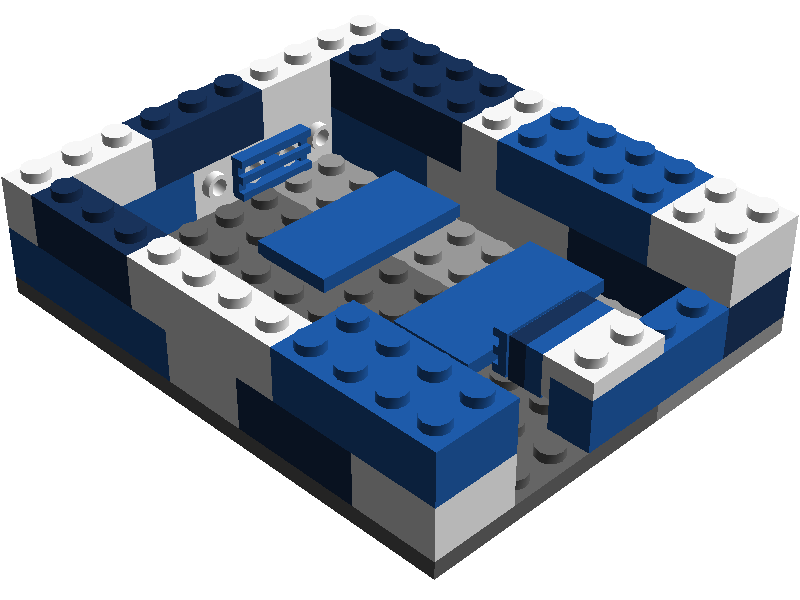
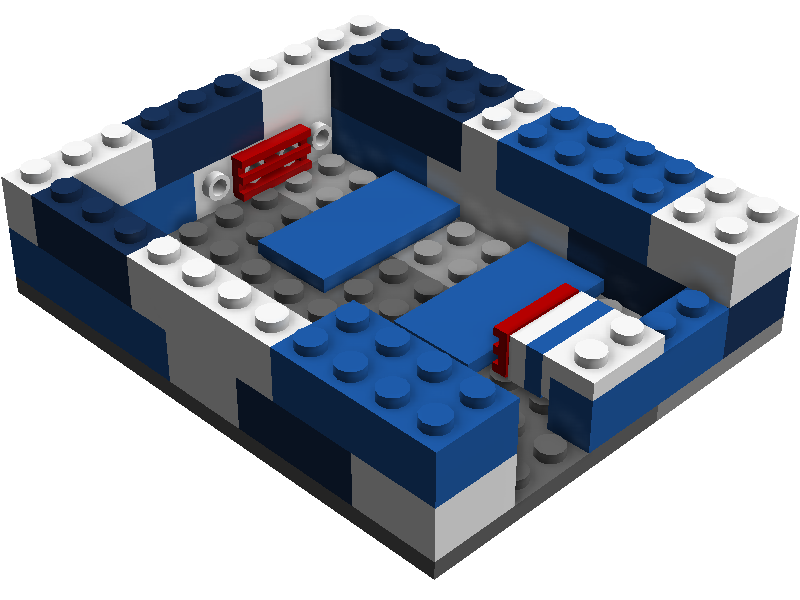
Fixed instructions

diff --git a/instructions/index.html b/instructions/index.html
@@ -556,8 +556,8 @@
                         <tr style="vertical-align:middle">
 					        <td>3&nbsp;x</td>
 					        <td><img height="64" width="64" src="steps/Brick12.png" /></td>
-					        <td>241223</td>
-					        <td>RADIATOR GRILLE 1X2 - Bright Blue</td>
+					        <td>241221</td>
+					        <td>RADIATOR GRILLE 1X2 - Bright Red</td>
 				        </tr>
                     </table>
                 </div>
@@ -567,8 +567,8 @@
                         <tr style="vertical-align:middle">
 					        <td>1&nbsp;x</td>
 					        <td><img height="64" width="64" src="steps/Brick13.png" /></td>
-					        <td>4177737</td>
-					        <td>PLATE 1X2 - Earth Blue</td>
+					        <td>302301</td>
+					        <td>PLATE 1X2 - White</td>
 				        </tr>
                     </table>
                 </div>

diff --git a/README.md b/README.md
@@ -16,31 +16,32 @@
 
 ## Bricks
 
-| Brick   | Name                          | Picture | Part  | Color code              | Quantity |
-|---------|-------------------------------|---------|-------|-------------------------|---------:|
-| 300401  | BRICK 1X2                     |         | 3004  | 1 - White               | 1        |
-| 362201  | BRICK 1X3                     |         | 3622  | 1 - White               | 1        |
-| 4251160 | BRICK 1X3                     |         | 3622  | 140 - Earth Blue        | 3        |
-| 300301  | BRICK 2X2                     |         | 3003  | 1 - White               | 2        |
-| 301001  | BRICK 1X4                     |         | 3010  | 1 - White               | 2        |
-| 301023  | BRICK 1X4                     |         | 3010  | 23 - Bright Blue        | 3        |
-| 300101  | BRICK 2X4                     |         | 3001  | 1 - White               | 1        |
-| 4264581 | BRICK 2X4                     |         | 3001  | 140 - Earth Blue        | 2        |
-| 300123  | BRICK 2X4                     |         | 3001  | 23 - Bright Blue        | 3        |
-| 6058177 | BRICK 1X2 W. 2 KNOBS          |         | 11211 | 1 - White               | 1        |
-| 4143254 | BRICK 1X4 W. 4 KNOBS          |         | 30414 | 1 - White               | 1        |
-| 241221  | RADIATOR GRILLE 1X2           |         | 2412  | 21 - Bright Red         | 3        |
-| 302301  | PLATE 1X2                     |         | 3023  | 1 - White               | 1        |
-| 302323  | PLATE 1X2                     |         | 3023  | 23 - Bright Blue        | 1        |
-| 4560180 | FLAT TILE 2X4                 |         | 87079 | 23 - Bright Blue        | 2        |
-| 4211401 | PLATE 4X12                    |         | 3029  | 194 - Medium Stone Grey | 1        |
-| 4210657 | PLATE 6X12                    |         | 3028  | 199 - Dark Stone Grey   | 1        |
-| 6018774 | ANGULAR PLATE 1,5 TOP 1X2 1/2 |         | 99781 | 1 - White               | 1        |
+| Brick   | Name                          | Picture                             | Part  | Color code              | Quantity |
+|---------|-------------------------------|------------------------------------ |-------|-------------------------|----------|
+| 300401  | BRICK 1X2                     | ![](instructions/steps/Brick13.png) | 3004  | 1 - White               | 1        |
+| 362201  | BRICK 1X3                     | ![](instructions/steps/Brick9.png)  | 3622  | 1 - White               | 1        |
+| 4251160 | BRICK 1X3                     | ![](instructions/steps/Brick10.png) | 3622  | 140 - Earth Blue        | 3        |
+| 300301  | BRICK 2X2                     | ![](instructions/steps/Brick7.png)  | 3003  | 1 - White               | 2        |
+| 301001  | BRICK 1X4                     | ![](instructions/steps/Brick8.png)  | 3010  | 1 - White               | 2        |
+| 301023  | BRICK 1X4                     | ![](instructions/steps/Brick4.png)  | 3010  | 23 - Bright Blue        | 3        |
+| 300101  | BRICK 2X4                     | ![](instructions/steps/Brick0.png)  | 3001  | 1 - White               | 1        |
+| 4264581 | BRICK 2X4                     | ![](instructions/steps/Brick5.png)  | 3001  | 140 - Earth Blue        | 2        |
+| 300123  | BRICK 2X4                     | ![](instructions/steps/Brick1.png)  | 3001  | 23 - Bright Blue        | 3        |
+| 6058177 | BRICK 1X2 W. 2 KNOBS          | ![](instructions/steps/Brick17.png) | 11211 | 1 - White               | 1        |
+| 4143254 | BRICK 1X4 W. 4 KNOBS          | ![](instructions/steps/Brick11.png) | 30414 | 1 - White               | 1        |
+| 241221  | RADIATOR GRILLE 1X2           | ![](instructions/steps/Brick12.png) | 2412  | 21 - Bright Red         | 3        |
+| 302301  | PLATE 1X2                     | ![](instructions/steps/Brick13.png) | 3023  | 1 - White               | 1        |
+| 302323  | PLATE 1X2                     | ![](instructions/steps/Brick14.png) | 3023  | 23 - Bright Blue        | 1        |
+| 4560180 | FLAT TILE 2X4                 | ![](instructions/steps/Brick2.png)  | 87079 | 23 - Bright Blue        | 2        |
+| 4211401 | PLATE 4X12                    | ![](instructions/steps/Brick3.png)  | 3029  | 194 - Medium Stone Grey | 1        |
+| 4210657 | PLATE 6X12                    | ![](instructions/steps/Brick16.png) | 3028  | 199 - Dark Stone Grey   | 1        |
+| 6018774 | ANGULAR PLATE 1,5 TOP 1X2 1/2 | ![](instructions/steps/Brick15.png) | 99781 | 1 - White               | 1        |
+
 
 ## Instructions
 
 * Available as [LXF](arduino_case.lxf)
-* HTML [instructions](instructions/index.html) were generated by Lego Digital Designer.
+* HTML [instructions](instructions/index.html) generated by Lego Digital Designer.
 
 ## Tested hardware
 
@@ -48,4 +49,4 @@
 
 ## Notes
 
-I used different colors for demonstration purposes only.  Please feel free to use experiment with your design.
+I used different colors for demonstration purposes only.  Please feel free to experiment with your design.
